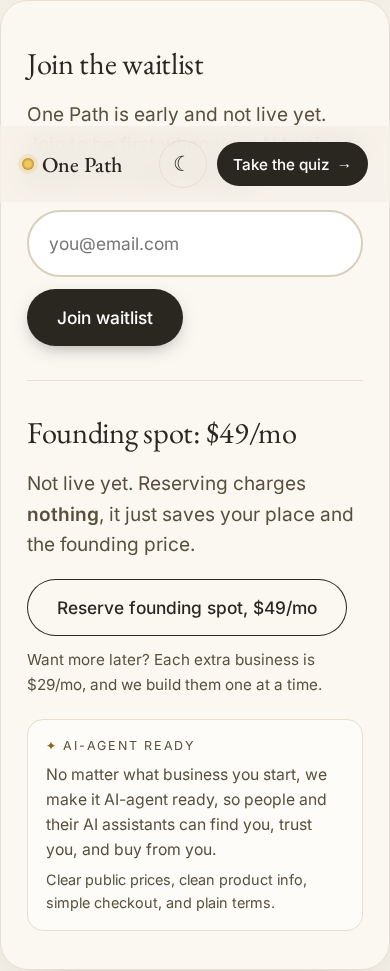
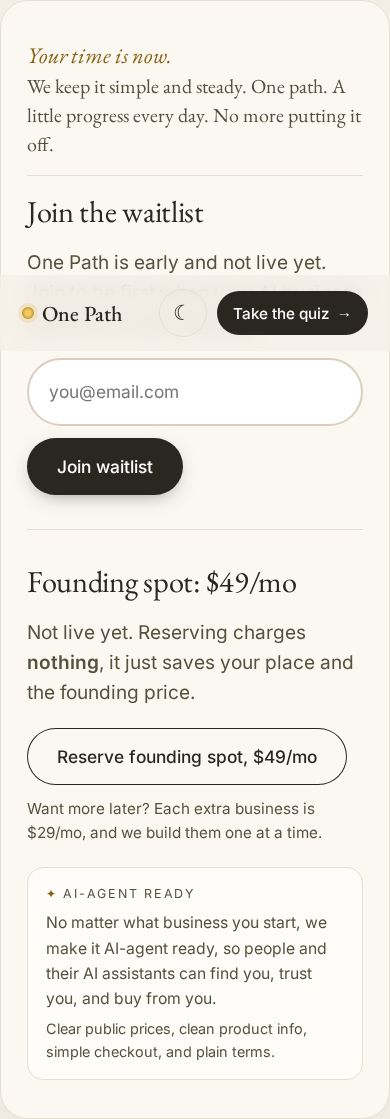
Rhythm line in waitlist section

diff --git a/style.css b/style.css
@@ -162,3 +162,4 @@ footer{font-size:.9rem}.how p{font-size:1.02rem}
 body.big{font-size:19px}body.big .hero .sub{font-size:1.2rem}body.big .opt{font-size:1.2rem}body.big .btn{font-size:1.1rem;padding:18px 30px}body.big h1{font-size:clamp(2.9rem,10vw,5rem)}
 body.long .hero h1{font-size:clamp(2.1rem,7.4vw,4rem)}
 .now{font:italic 1.3rem var(--serif);color:var(--gold);margin:0 0 12px}
+.rhythm{font:1.25rem/1.45 var(--serif);color:var(--ink);margin:0 0 18px;padding-bottom:16px;border-bottom:1px solid var(--line)}.rhythm em{color:var(--gold);display:block;font-size:1.4rem}

diff --git a/agents/index.html b/agents/index.html
@@ -31,6 +31,7 @@
   <div id="result" hidden></div>
 </section>
 <section id="join" class="wrap card fade">
+  <p class="rhythm"><em>Your time is now.</em> We keep it simple and steady. One path. A little progress every day. No more putting it off.</p>
   <h2>Join the waitlist</h2>
   <p>One Path is early and not live yet. Join to be first when your AI business partner can start building.</p>
   <form id="wl" action="https://formspree.io/f/xkjjjzlv" method="POST">

diff --git a/easy/index.html b/easy/index.html
@@ -31,6 +31,7 @@
   <div id="result" hidden></div>
 </section>
 <section id="join" class="wrap card fade">
+  <p class="rhythm"><em>Your time is now.</em> We keep it simple and steady. One path. A little progress every day. No more putting it off.</p>
   <h2>Join the waitlist</h2>
   <p>One Path is early and not live yet. Join to be first when your AI business partner can start building.</p>
   <form id="wl" action="https://formspree.io/f/xkjjjzlv" method="POST">

diff --git a/index.html b/index.html
@@ -31,6 +31,7 @@
   <div id="result" hidden></div>
 </section>
 <section id="join" class="wrap card fade">
+  <p class="rhythm"><em>Your time is now.</em> We keep it simple and steady. One path. A little progress every day. No more putting it off.</p>
   <h2>Join the waitlist</h2>
   <p>One Path is early and not live yet. Join to be first when your AI business partner can start building.</p>
   <form id="wl" action="https://formspree.io/f/xkjjjzlv" method="POST">

diff --git a/side/index.html b/side/index.html
@@ -31,6 +31,7 @@
   <div id="result" hidden></div>
 </section>
 <section id="join" class="wrap card fade">
+  <p class="rhythm"><em>Your time is now.</em> We keep it simple and steady. One path. A little progress every day. No more putting it off.</p>
   <h2>Join the waitlist</h2>
   <p>One Path is early and not live yet. Join to be first when your AI business partner can start building.</p>
   <form id="wl" action="https://formspree.io/f/xkjjjzlv" method="POST">
